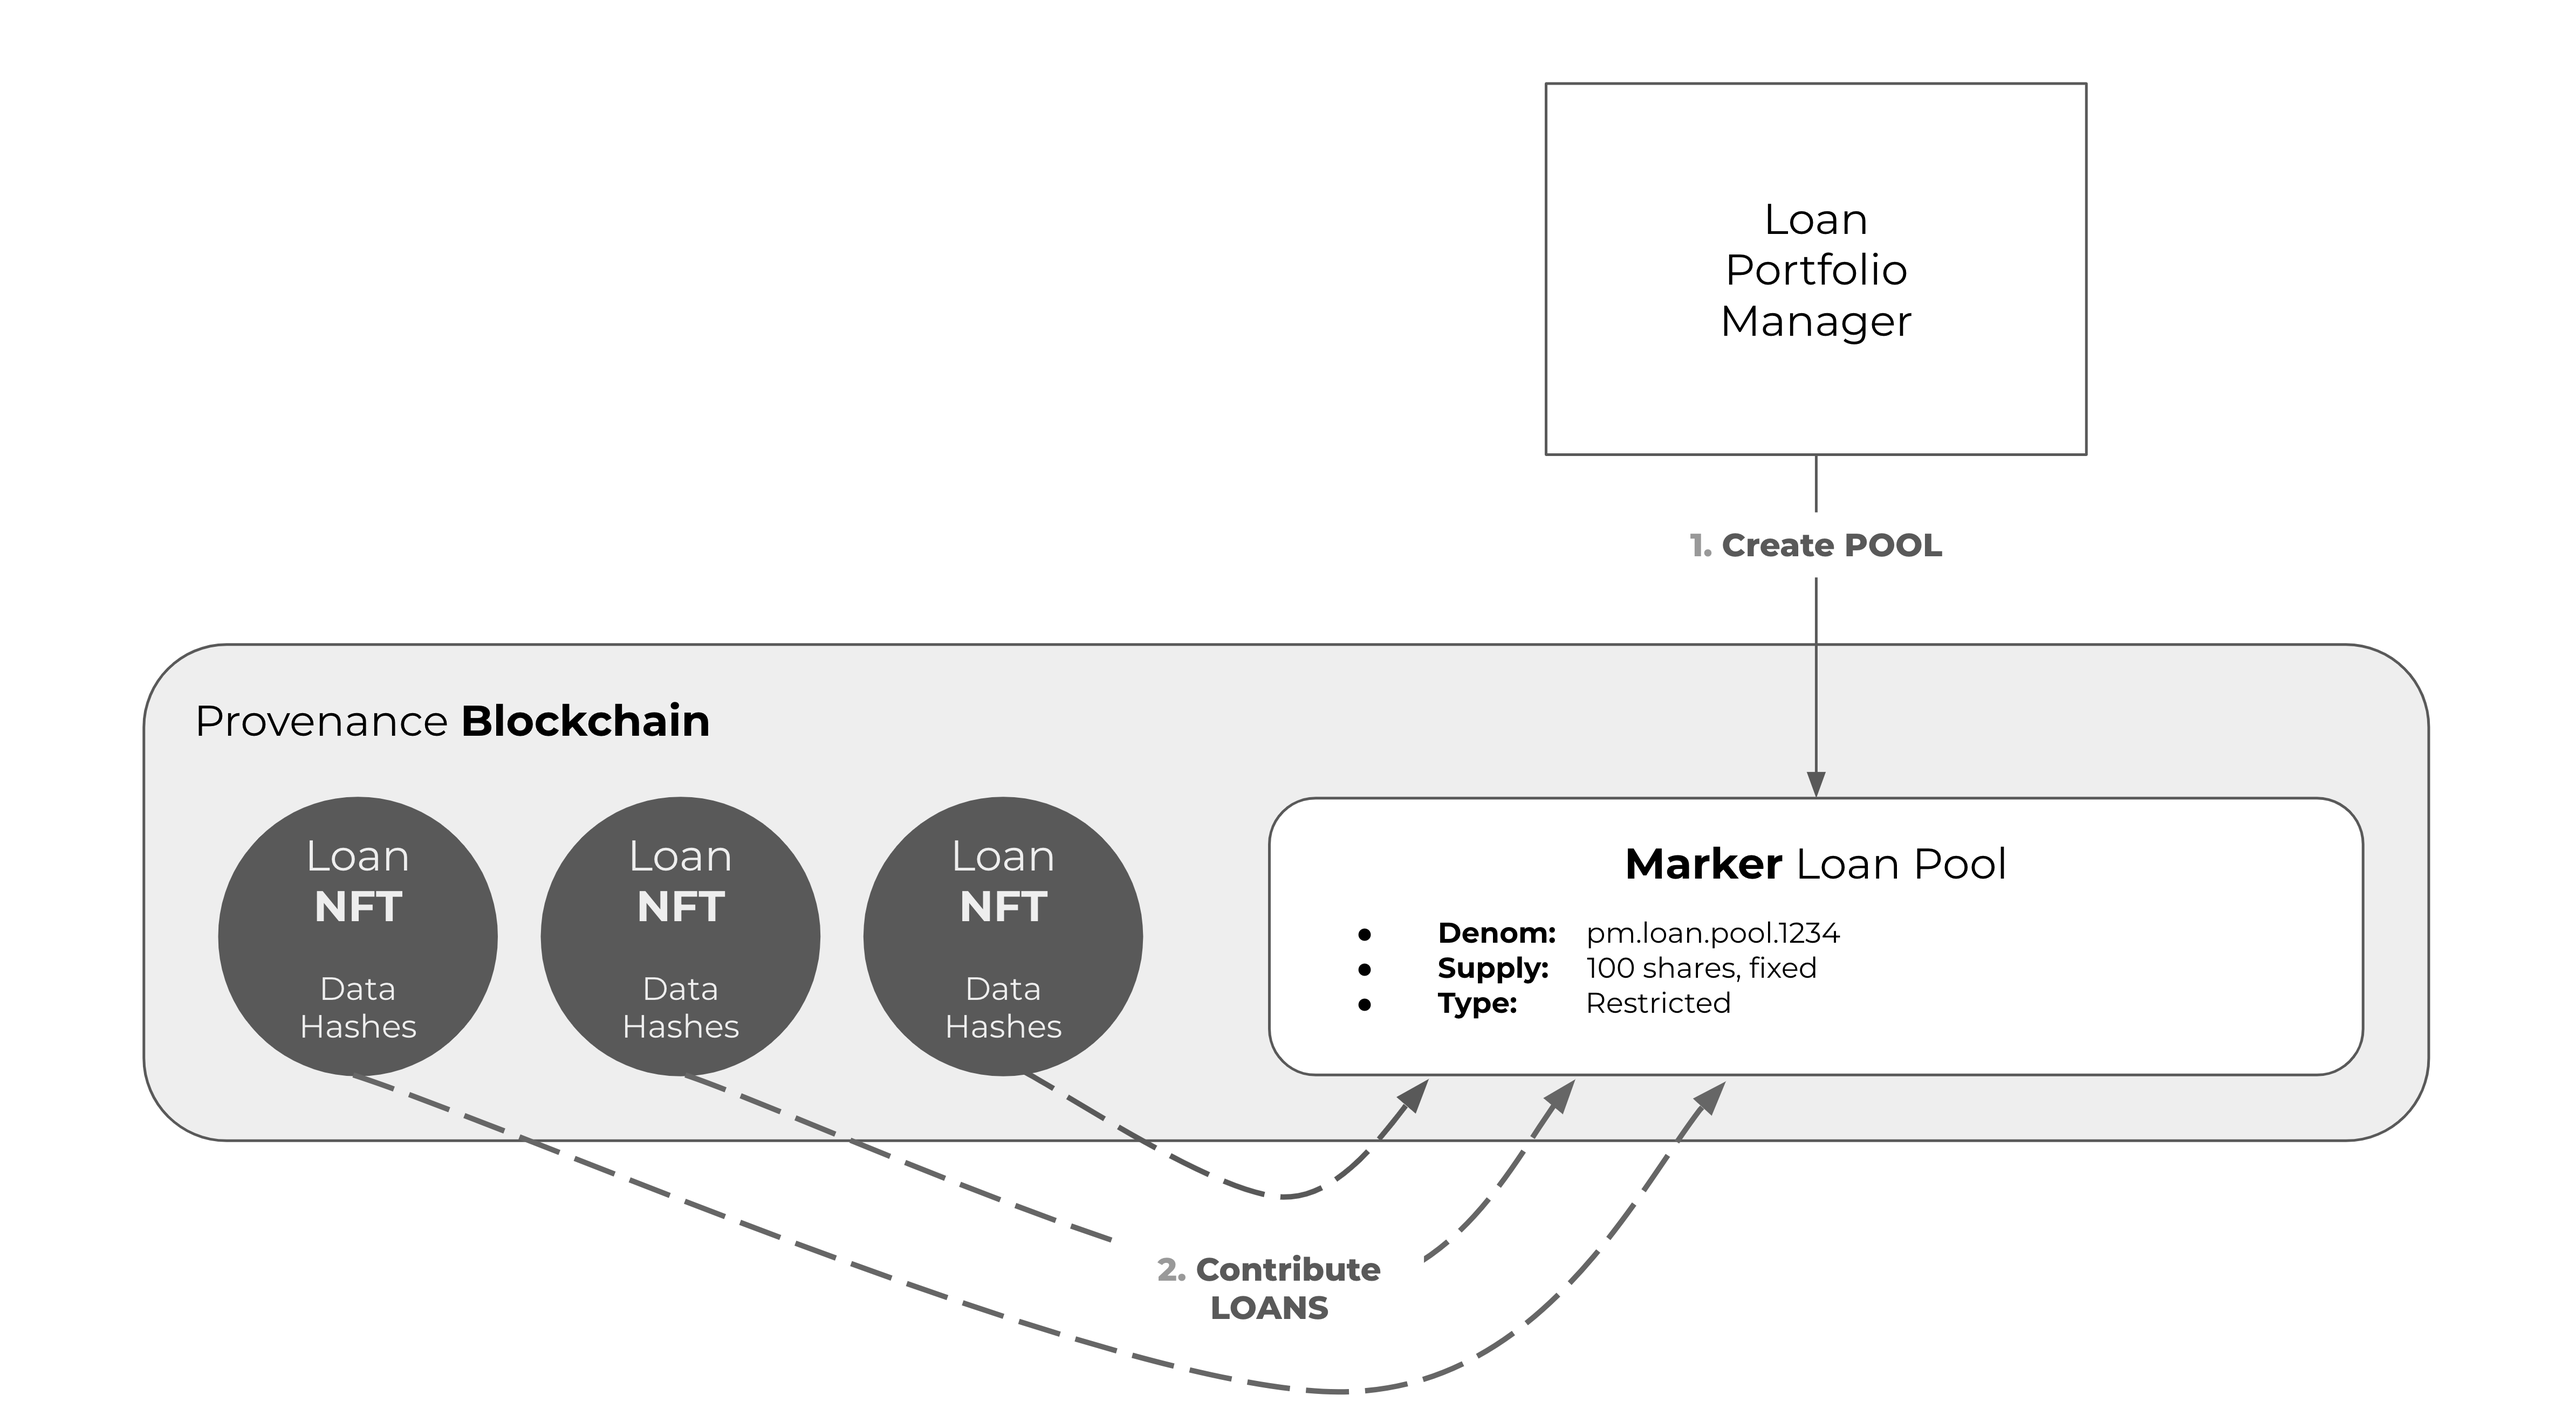
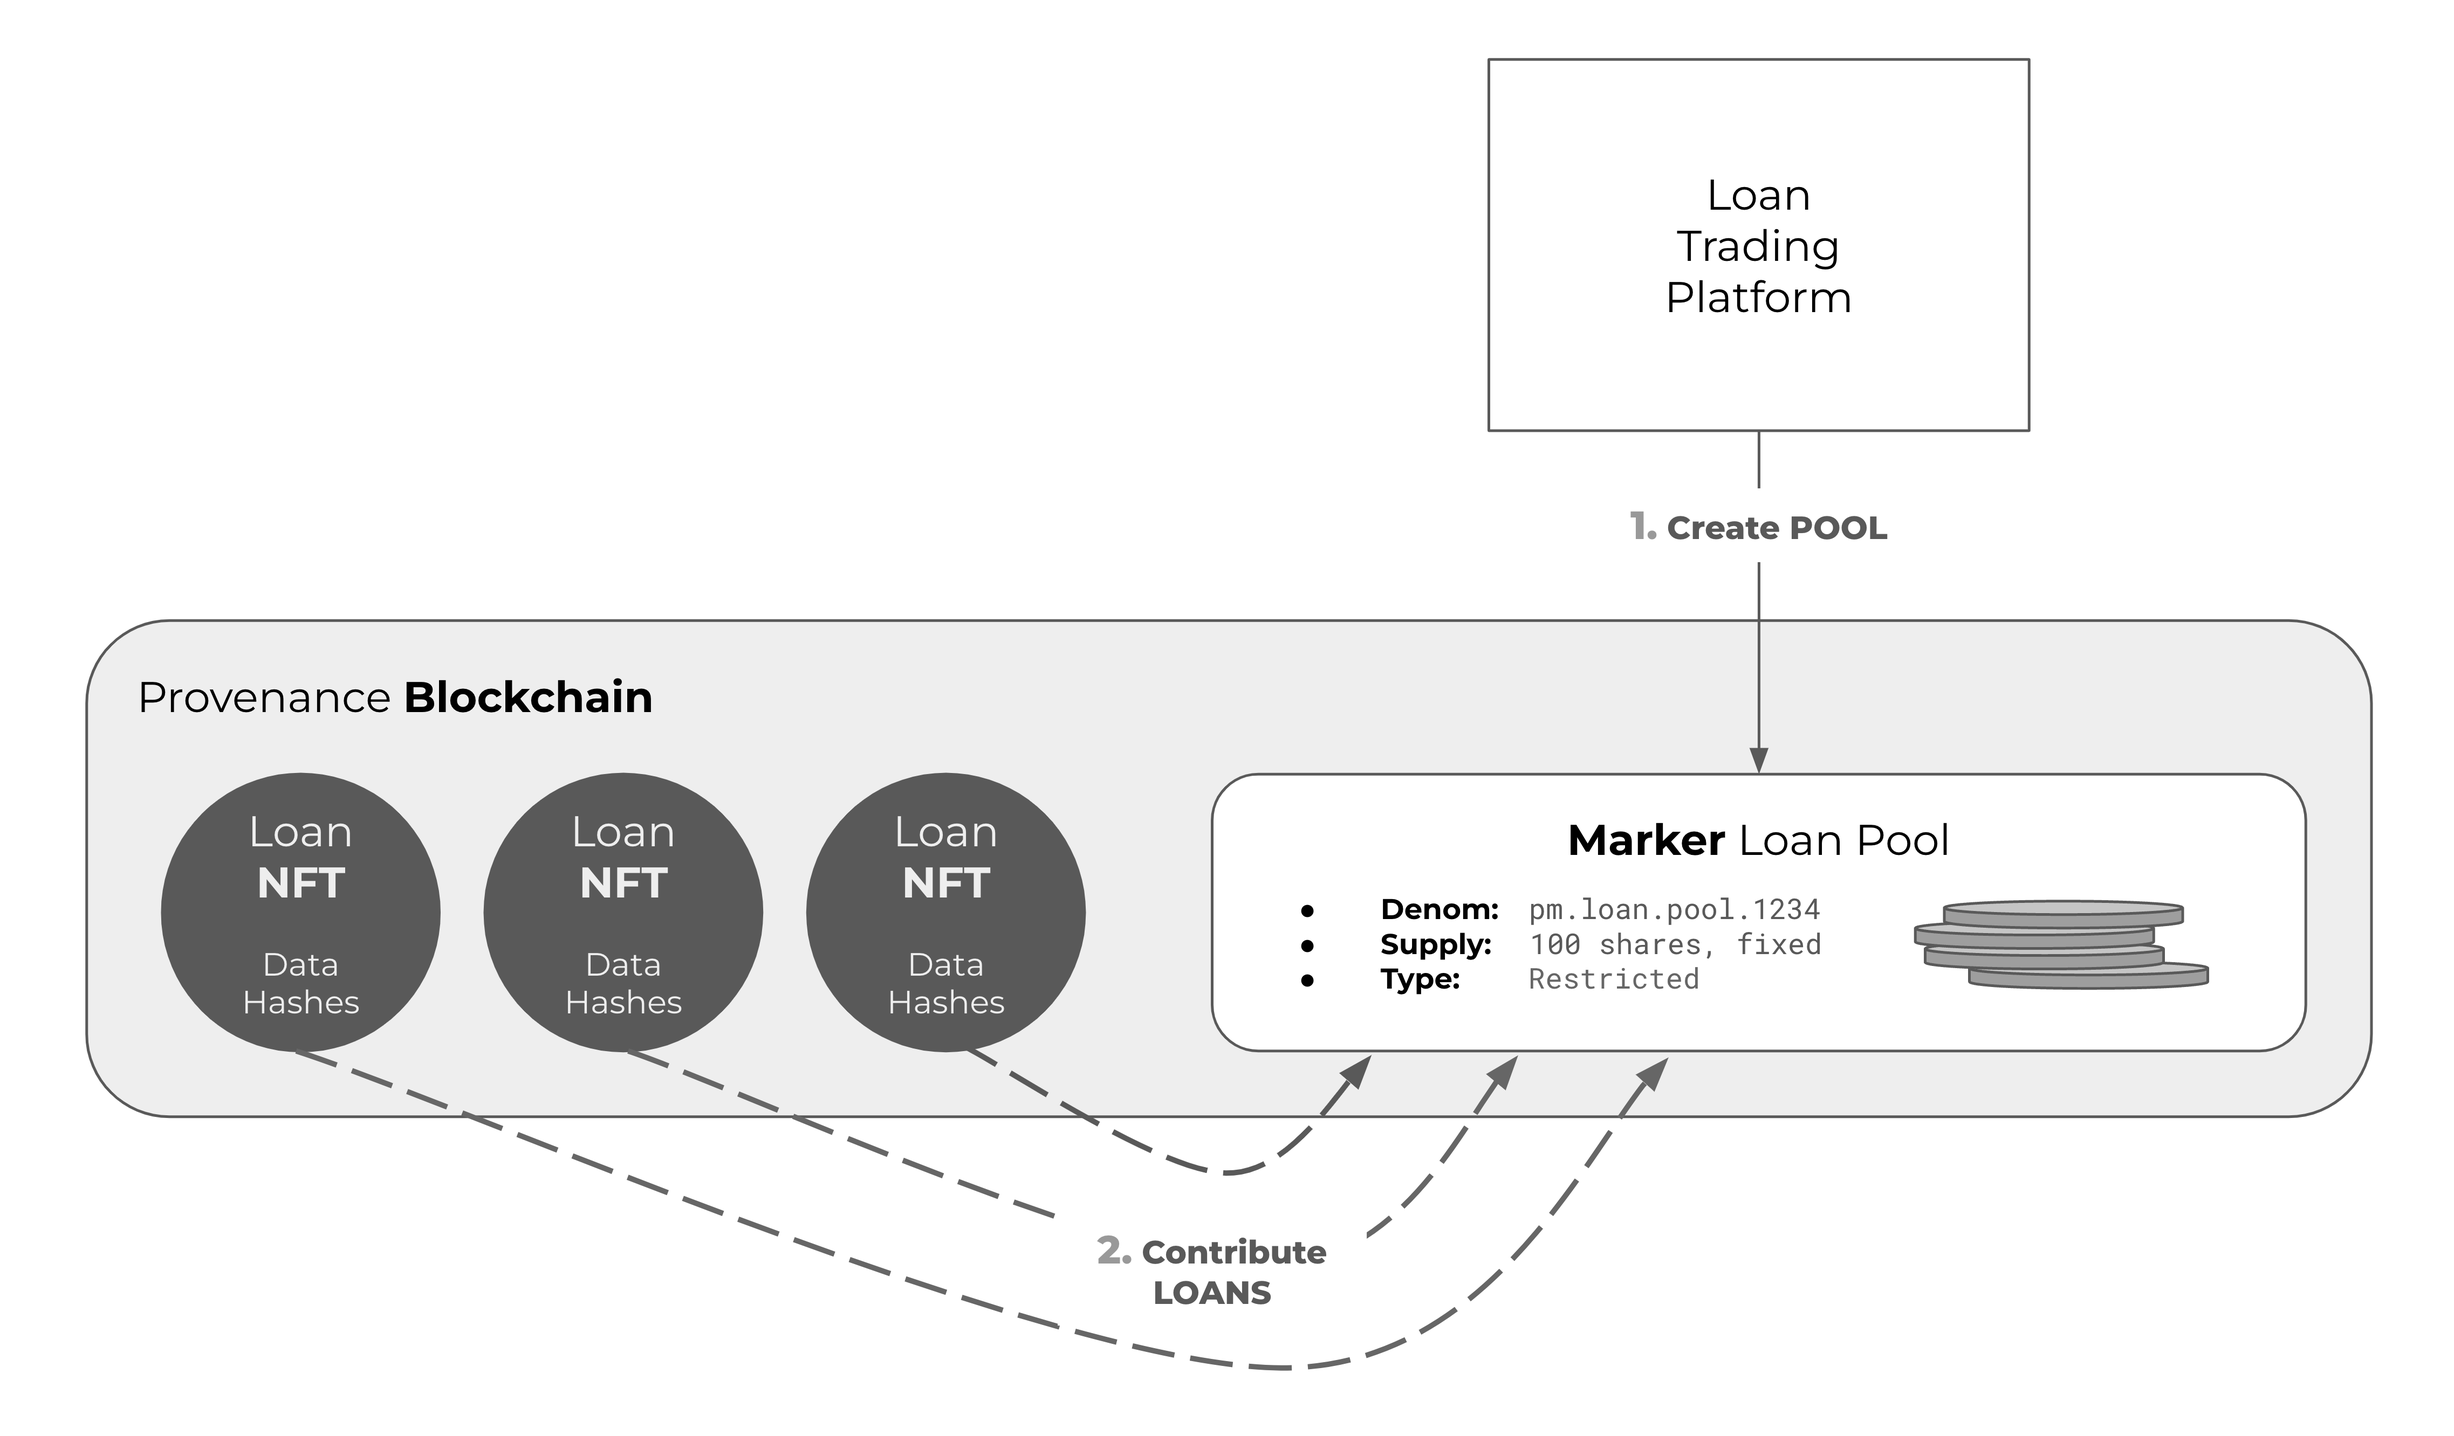
wip

diff --git a/sidebars.js b/sidebars.js
@@ -25,7 +25,7 @@ const sidebars = {
         // 'learn/asset-lifecycle/issue',
         // 'learn/asset-lifecycle/manage',
         // 'learn/asset-lifecycle/trade',
-        // 'learn/asset-lifecycle/lending-example',
+        'learn/asset-lifecycle/lending-example',
         'learn/asset-lifecycle/capital-raise-example',
       ],
     },

diff --git a/docs/learn/asset-lifecycle/07-lending-example.md b/docs/learn/asset-lifecycle/07-lending-example.md
@@ -1,47 +1,72 @@
-# Example: Lending
+# Example: Loan Pools
 
-Provenance Blockchain has the power to significantly improve upon and grow the whole loan participation market. The distributed,
-trustless and immutable characteristics of blockchain can reduce costs, improve transaction speed, enhance
-diversification and improve liquidity.
+The loan origination process is an essential aspect of the financial sector, and it has always been a challenge to track
+the origin, history, and ownership of loans. With the advent of blockchain technology, this process is undergoing a
+transformation. The Provenance Blockchain is one such platform that has leveraged blockchain technology to revolutionize
+the loan origination, structuring, and trading process.
 
-The registration of a new asset on a blockchain is known as "minting" an NFT. On Provenance Blockchain, NFTs are
-represented using the Metadata Module and the Scope data structure.
+## Loan Origination and NFTs
 
-The Provenance Blockchain Metadata Module was designed to reason about data off-chain (thus preserving data privacy,
-such as PII), while recording the results of the asset data state (represented by the data hash) on the blockchain.
+When a loan is issued by an originator, the Loan Origination System (LOS) mints a
+[**Non-Fungible Token (NFT)**](/docs/learn/asset-lifecycle/assets-overview) that represents the loan on the Provenance
+Blockchain. The NFT is a unique digital asset that represents ownership of the loan and serves as a digital certificate
+of ownership.
 
-Recording the checksum or hash of asset data as part of the NFT record allows independent parties to prove asset data
-has not been altered, thus "Replacing Trust with Truth".
+### Data Privacy and Encrypted Object Store (EOS)
 
-When an asset is “minted” (registered) on the Provenance Blockchain, a data structure called a scope is created to
-contain the NFT metadata. The data for the asset, which frequently contains non-public information, is stored off-chain
-in an Encrypted Object Store. The on-chain scope metadata contains the ownership information of the NFT and can be
-pooled or tokenized using the marker module.
+In the Provenance Blockchain, loan-level data and related Personally Identifiable Information (PII) is kept off the
+blockchain in the [Encrypted Object Store (EOS)](/docs/pb/p8e/overview/). This includes all the documents generated for
+the loan, such as loan applications, borrower information, and loan agreements. By keeping this sensitive data off the
+blockchain and [coordinating it with the NFT through data hashes](/docs/learn/asset-lifecycle/nfts), Provenance Blockchain ensures the privacy and security
+of the loan data.
 
-A loan originator creates a digital loan packet including both structured loan data using Google Protocol Buffers and
-the required loan documents (typically PDFs).
+The loan originator can choose to **grant read or write permission** to the data in the EOS to other participants, such as the loan
+servicer or a loan trading platform. This enables these participants to access the loan data in the EOS, provided they have the
+necessary permissions.
 
-The loan data is then onboarded to the Provenance Blockchain through the execution of off-chain client-side contracts,
-which verifies the completeness of the loan data and stores it as a record in the Provenance Encrypted Object Store
-(EOS).
+### Event Stream and Continuous Notification of NFT Creation
 
-The truth of the data is ensured by the Provenance Blockchain Contract Execution Environment, which records hashed
-representations of all transactions, contracts, and documents to the blockchain. Any updates to the data can only occur
-through further contract execution, ensuring the integrity of the loan data without requiring trust in the individual
-originator's data store.
+When any NFT is minted on the Provenance Blockchain, a notification of NFT creation goes out as an event. This
+continuous sequence of events is called the Event Stream. The Event Stream enables other decentralized applications
+(dApps) or systems to listen to the stream and hear when a new loan NFT is minted.
 
-
-Once an asset NFT has been minted, the asset can be:
-
-- Classified or validated
-- Transferred to another party (change of ownership)
-- Sold in a bilateral-exchange using a smart contract
-- Pooled into a group of assets
-- Tokenized into shares, which may be sold separately
-- Transferred to a smart contract for more complex use cases, such as ongoing royalty payments at each subsequent sale
+Provided they are permissioned to read the data, downstream systems can fetch and decrypt loan-level data from the EOS.
+This enables real-time monitoring and analysis of the loan data, and provides a transparent and auditable record of all
+activity related to the loan.
 
 ![asset lifecycle](/img/learn/asset-lifecycle/loan-lifecycle.png)
 
-Lorem ipsum...
+## Loan Pools and Markers
+
+Loan Pools allow for the bundling of individual loans into a single, more easily tradable security. This provides a
+means for pooling risk and increasing liquidity for investors. The Provenance Blockchain provides a flexible solution
+for creating these loan pools by using its Marker construct.
+
+A loan trading platform dApp can be used to select loans for contribution to a pool and create the Marker. The
+loan-level data is stored in the EOS and can be permissioned to the loan trading platform, giving them access to the
+data necessary to make informed decisions on loan selection.
+
+Each Marker has a token representing ownership in the pool, with a specific name or denomination that is unique to the
+pool. The supply of shares in the token can be fixed at creation, or it can be floating, with the number of shares
+changing based on investor participation in the pool.
+
+In the case of a Restricted Marker, the trading of shares in the loan pool is controlled by the loan originator and the
+trading platform. This ensures that the loans are managed in a manner consistent with the intended use of the loan pool.
+For example, for a loan pool representing a whole loan sale, the supply of tokens may be set to one share, indicating
+the sale of the entire pool of loans to a single investor.
+
+The Provenance Blockchain provides the ability to create multiple types of loan structures, making it a powerful
+platform for managing loan assets. The creation of loan pools through the use of Markers provides a means of pooling
+risk, increasing liquidity, and making loans more easily tradable, making it an attractive platform for loan
+originators, loan servicers, and investors.
 
 ![asset lifecycle](/img/learn/asset-lifecycle/loan-lifecycle-structure.png)
+
+This flexibility in pool creation is a major advantage of using Provenance Blockchain for loan trading. By using NFTs to
+represent loans and Markers to represent pools, a wide range of loan pool structures can be created, including
+Mortgage-Backed Securities (MBS), Collateralized Mortgage Obligations (CMOs), Residential Mortgage-Backed Securities (
+RMBS), Commercial Mortgage-Backed Securities (CMBS), Asset-Backed Securities (ABS), Loan Participations, Whole Loan
+Pools, Synthetic Collateralized Debt Obligations (CDOs), Mezzanine Loan Pools, Residential Whole Loan Pools, Commercial
+Whole Loan Pools, and Consumer Loan Pools.
+
+
